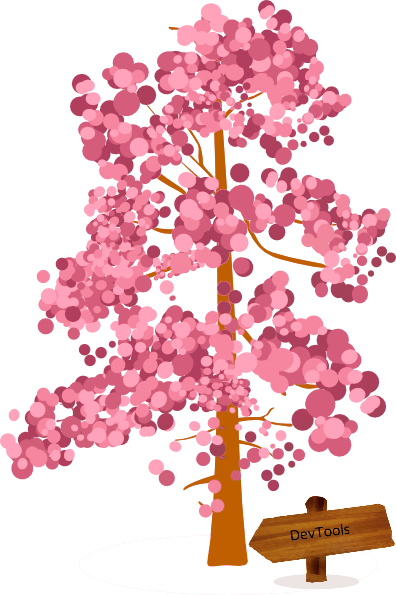
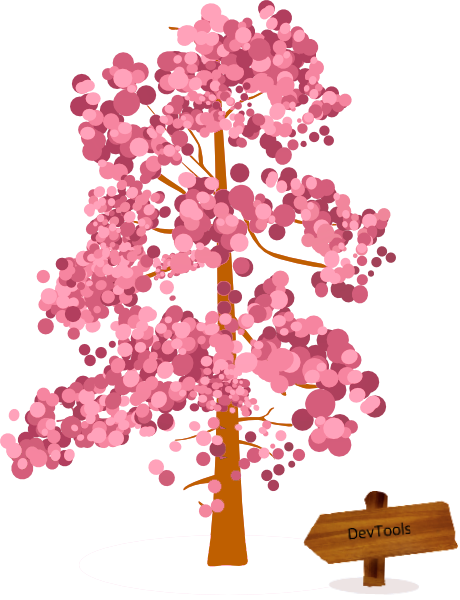
add text div

diff --git a/style.css b/style.css
@@ -78,10 +78,18 @@ Skills
     position: relative;
     top: 49vh;
     background-color: beige;
-    background-image: url("./image/sign.png");
+    background-image: url("./image/woodsign.png");
     background-repeat: no-repeat;
     background-position:center;
     background-size: contain;
+}
+.signText{
+    height: 61%;
+    width: 81%;
+    position: absolute;
+    left: 11%;
+    top: 10%;
+    text-align: center;
 }
 .skills {
     width: 10vh;
@@ -118,18 +126,18 @@ Skills
     animation-name: fall, sway;
     animation-duration: 3s, 5s;
     animation-fill-mode: both;
-    animation-timing-function: linear, ease-in-out;
+    animation-timing-function: linear, linear;
 }
 
 @keyframes sway {
     0% { transform: rotateZ(-15deg) rotateX(55deg);  }
     30% { transform: rotateZ(20deg) rotateX(60deg); animation-timing-function: ease-in-out; }
     60% { transform: rotateZ(-20deg) rotateX(55deg); animation-timing-function: ease-in-out;  }
-    100% { transform: rotateZ(0deg) rotateX(58deg); animation-timing-function: cubic-bezier(0.990, 0.000, 0.890, 0.435);  }
+    100% { transform: rotateZ(0deg) rotateX(58deg); animation-timing-function: ease-in-out;  }
 }
 @keyframes fall {
      to {
-        top: 90%;
+        top: 95%;
     }
 }
 
@@ -181,7 +189,7 @@ Skills
     position:relative;
     top:20vh;
     background-color: beige;
-    background-image: url("./image/treeFront.png");
+    background-image: url("./image/treeFront2.png");
     background-repeat: no-repeat;
     background-position:center;
     background-size: contain;

diff --git a/index.html b/index.html
@@ -66,7 +66,9 @@
     <div id="skill" class="container">
 
         <div class="col-sm-offset-1 col-sm-4 tree"></div>
-        <div class="col-sm-2 sign"></div>
+        <div class="col-sm-2 sign">
+            <div id="signText"></div>
+        </div>
         <div class="col-sm-4 cherry"></div>
 
     </div>
